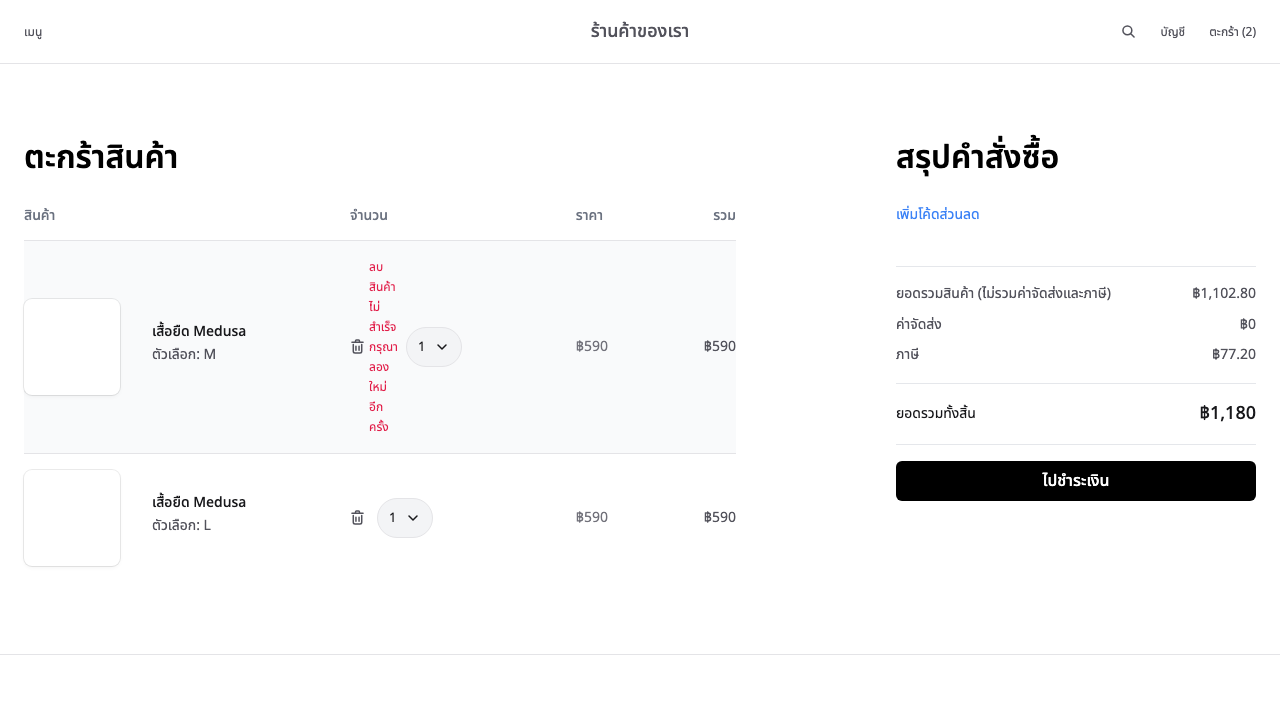
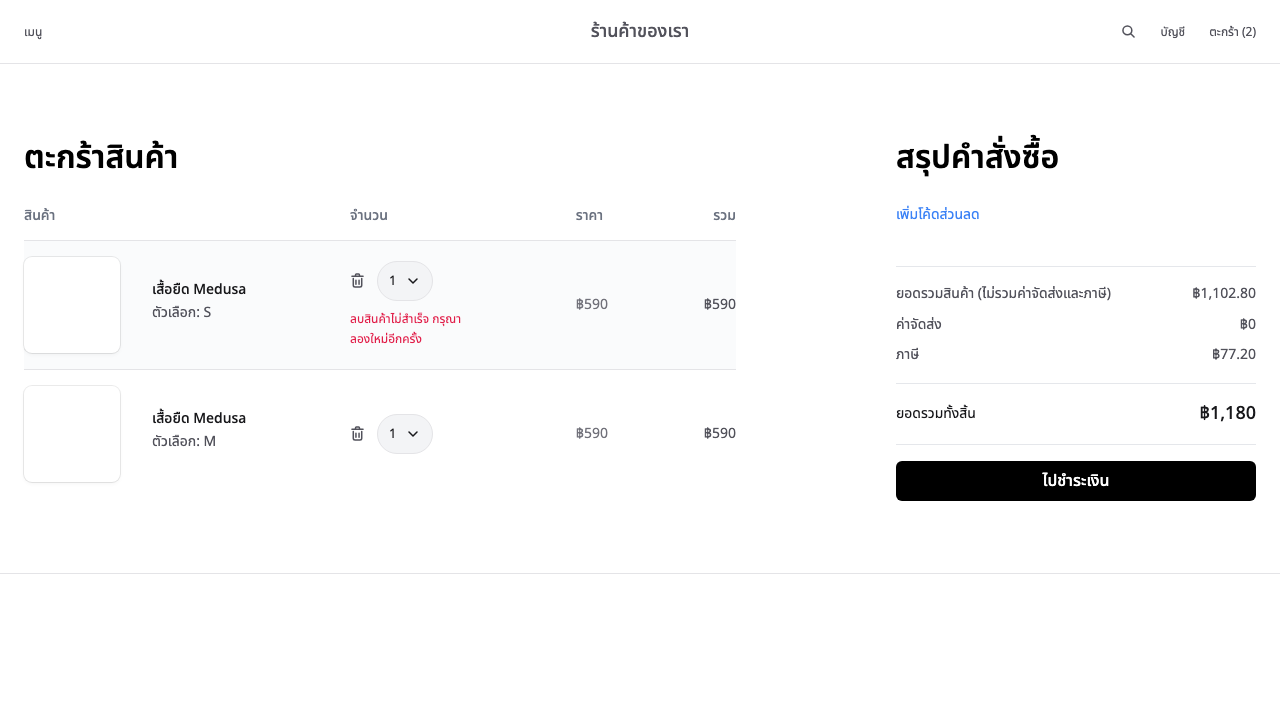
fix(storefront): จัด layout ข้อความ error ปุ่มลบในหน้า cart และใช้ข้อความไทยกลาง (CORE-19c)
- qa #142 D-2: cart-item-remove-error ขึ้นบรรทัดใหม่เต็มความกว้างของแถว (ไม่ถูกบีบใน w-28 จน 9 บรรทัด) ทั้ง 1280 และ 375px
  e2e ตรวจความสูง ≤ 2 บรรทัด, ไม่ทับปุ่ม/select, ไม่มี scroll แนวนอน
- qa #142 D-1: ตัดกิ่ง 401 ที่ไม่มีทางเกิดใน prod — ใช้ข้อความไทยกลางข้อความเดียว

spec 01 กฎข้อ 64, AC-100

diff --git a/apps/storefront/e2e/core-19c-delete-button-error.spec.ts b/apps/storefront/e2e/core-19c-delete-button-error.spec.ts
@@ -76,6 +76,31 @@ async function expectRemoveFailedVisibly(scope: Locator) {
   await expect(scope.getByTestId("cart-item-remove-spinner")).toHaveCount(0, { timeout: 5000 })
 }
 
+type Box = { x: number; y: number; width: number; height: number }
+const overlaps = (a: Box, b: Box) =>
+  a.x < b.x + b.width && b.x < a.x + a.width && a.y < b.y + b.height && b.y < a.y + a.height
+
+/**
+ * qa #142 D-2: ข้อความ error อ่านได้ — สูงไม่เกิน 2 บรรทัด, ไม่ทับปุ่ม/element อื่นใน line, หน้าไม่เลื่อนแนวนอน
+ * (ก่อนแก้ในหน้า cart ข้อความถูกบีบใน cell `w-28` กว้าง 29px ตัดเป็น 9 บรรทัด)
+ */
+async function expectReadableError(page: Page, scope: Locator, neighbours: string[]) {
+  const error = scope.getByTestId("cart-item-remove-error")
+  const box = (await error.boundingBox())!
+  const lineHeight = await error.evaluate((el) => parseFloat(getComputedStyle(el).lineHeight))
+  expect(box.height, `ความสูง error (line-height ${lineHeight}px)`).toBeLessThanOrEqual(lineHeight * 2 + 1)
+  for (const id of neighbours) {
+    const el = scope.getByTestId(id)
+    // `<select>` ของ CartItemSelect สูง h-16 ล้นกรอบที่มองเห็น (badge h-10 ของ starter) — วัดกรอบที่มองเห็นแทน
+    const visible = id === "product-select-button" ? el.locator("xpath=..") : el
+    const other = (await visible.boundingBox())!
+    expect(overlaps(box, other), `error ทับ ${id}`).toBe(false)
+  }
+  const viewport = page.viewportSize()!.width
+  expect(box.x + box.width, "error อยู่ในจอ").toBeLessThanOrEqual(viewport)
+  expect(await page.evaluate(() => document.documentElement.scrollWidth), "หน้าไม่เลื่อนแนวนอน").toBeLessThanOrEqual(viewport)
+}
+
 test("AC-100: ทุก line ใน cart dropdown (บน /th/cart) มี cart-item-remove-button และ line ในหน้า cart มี product-delete-button", async ({
   page,
   context,
@@ -113,6 +138,7 @@ test("AC-100: ลบใน cart dropdown แล้ว server action ตอบ 50
     await first.getByTestId("cart-item-remove-button").click()
     await expect.poll(failedCount).toBe(1)
     await expectRemoveFailedVisibly(first)
+    await expectReadableError(page, first, ["cart-item-remove-button"])
     await evidence("01-dropdown-remove-error")
   })
 
@@ -122,23 +148,30 @@ test("AC-100: ลบใน cart dropdown แล้ว server action ตอบ 50
   })
 })
 
-test("AC-100: ลบในหน้า /th/cart แล้ว server action ตอบ 500 → error ไทย spinner หาย line ยังอยู่", async ({
-  page,
-  context,
-  request,
-  baseURL,
-  evidence,
-}) => {
-  const { headers, cartId } = await customerWithTwoLines(request, context, baseURL!)
-  await page.goto(`/${CC}/cart`)
-  await expect(page.getByTestId("product-row")).toHaveCount(2)
-  const first = page.getByTestId("product-row").first()
+for (const viewport of [
+  { width: 1280, height: 720 },
+  { width: 375, height: 812 },
+]) {
+  test(`AC-100: ลบในหน้า /th/cart แล้ว server action ตอบ 500 → error ไทย spinner หาย line ยังอยู่ (${viewport.width}px)`, async ({
+    page,
+    context,
+    request,
+    baseURL,
+    evidence,
+  }) => {
+    await page.setViewportSize(viewport)
+    const { headers, cartId } = await customerWithTwoLines(request, context, baseURL!)
+    await page.goto(`/${CC}/cart`)
+    await expect(page.getByTestId("product-row")).toHaveCount(2)
+    const first = page.getByTestId("product-row").first()
 
-  const failedCount = await failNextServerAction(page)
-  await first.getByTestId("product-delete-button").click()
-  await expect.poll(failedCount).toBe(1)
-  await expectRemoveFailedVisibly(first)
-  await expect(page.getByTestId("product-row")).toHaveCount(2)
-  expect(await backendLineCount(request, cartId, headers)).toBe(2)
-  await evidence("02-cart-page-remove-error")
-})
+    const failedCount = await failNextServerAction(page)
+    await first.getByTestId("product-delete-button").click()
+    await expect.poll(failedCount).toBe(1)
+    await expectRemoveFailedVisibly(first)
+    await expectReadableError(page, first, ["product-delete-button", "product-select-button"])
+    await expect(page.getByTestId("product-row")).toHaveCount(2)
+    expect(await backendLineCount(request, cartId, headers)).toBe(2)
+    await evidence(viewport.width === 1280 ? "02-cart-page-remove-error" : "03-cart-page-remove-error-375")
+  })
+}

diff --git a/apps/storefront/src/modules/common/components/delete-button/index.tsx b/apps/storefront/src/modules/common/components/delete-button/index.tsx
@@ -1,11 +1,11 @@
 import { deleteLineItem } from "@lib/data/cart"
 import { notifyCartUpdated } from "@lib/util/cart-events"
-import { friendlyErrorMessage } from "@lib/util/error-message"
 import { Spinner, Trash } from "@medusajs/icons"
 import { clx } from "@modules/common/components/ui"
 import { useState } from "react"
 
 // CORE-19c (spec 01 กฎข้อ 64): ลบล้มต้องบอกผู้ใช้ ไม่กลืน error เงียบ
+// ใช้ข้อความกลางข้อความเดียว: error จาก server action ใน prod ถูก Next ซ่อนรายละเอียด (ไม่มี status ให้แยกกรณี)
 const REMOVE_FAILED_MESSAGE = "ลบสินค้าไม่สำเร็จ กรุณาลองใหม่อีกครั้ง"
 
 const DeleteButton = ({
@@ -27,8 +27,8 @@ const DeleteButton = ({
     setError(null)
     await deleteLineItem(id)
       .then(notifyCartUpdated)
-      .catch((err) => {
-        setError(friendlyErrorMessage(err, REMOVE_FAILED_MESSAGE))
+      .catch(() => {
+        setError(REMOVE_FAILED_MESSAGE)
         setIsDeleting(false)
       })
   }
@@ -36,7 +36,7 @@ const DeleteButton = ({
   return (
     <div
       className={clx(
-        "flex items-center justify-between text-small-regular",
+        "flex flex-wrap items-center justify-between text-small-regular",
         className
       )}
     >
@@ -57,8 +57,9 @@ const DeleteButton = ({
         <span>{children}</span>
       </button>
       {error && (
+        // qa #142 D-2: ขึ้นบรรทัดใหม่เต็มความกว้างของแถว (order-last) ไม่ถูกบีบข้างปุ่ม
         <span
-          className="text-ui-fg-error text-small-regular"
+          className="basis-full order-last text-ui-fg-error text-small-regular"
           role="alert"
           data-testid="cart-item-remove-error"
         >

diff --git a/apps/storefront/src/modules/cart/components/item/index.tsx b/apps/storefront/src/modules/cart/components/item/index.tsx
@@ -74,8 +74,13 @@ const Item = ({ item, type = "full", currencyCode }: ItemProps) => {
 
       {type === "full" && (
         <Table.Cell>
-          <div className="flex gap-2 items-center w-28">
-            <DeleteButton id={item.id} data-testid="product-delete-button" />
+          {/* qa #142 D-2 (CORE-19c): `!contents` ให้ปุ่มลบและข้อความ error เป็น flex item ของแถวนี้ — error ขึ้นบรรทัดใหม่กว้างเต็ม w-28 */}
+          <div className="flex flex-wrap gap-2 items-center w-28">
+            <DeleteButton
+              id={item.id}
+              className="!contents"
+              data-testid="product-delete-button"
+            />
             <CartItemSelect
               value={item.quantity}
               onChange={(value) => changeQuantity(parseInt(value.target.value))}
